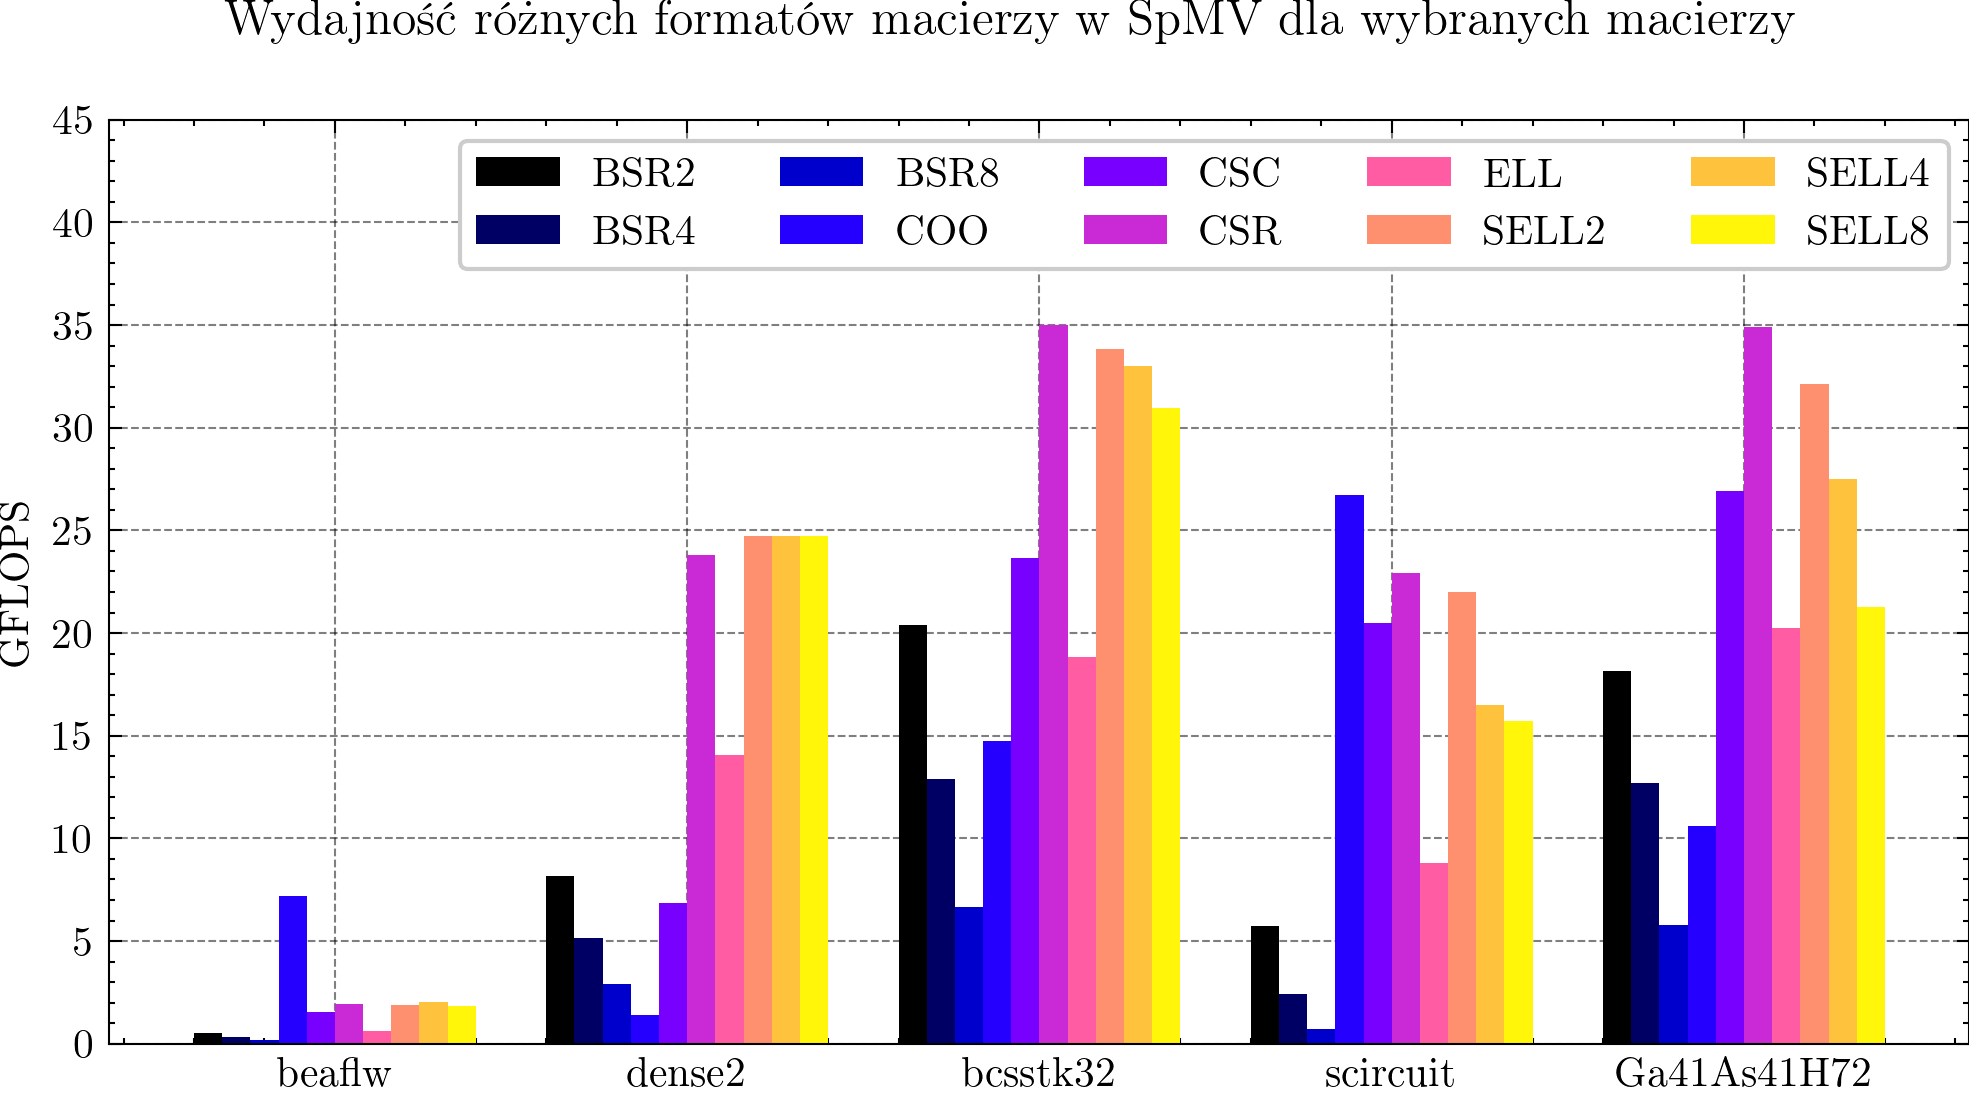
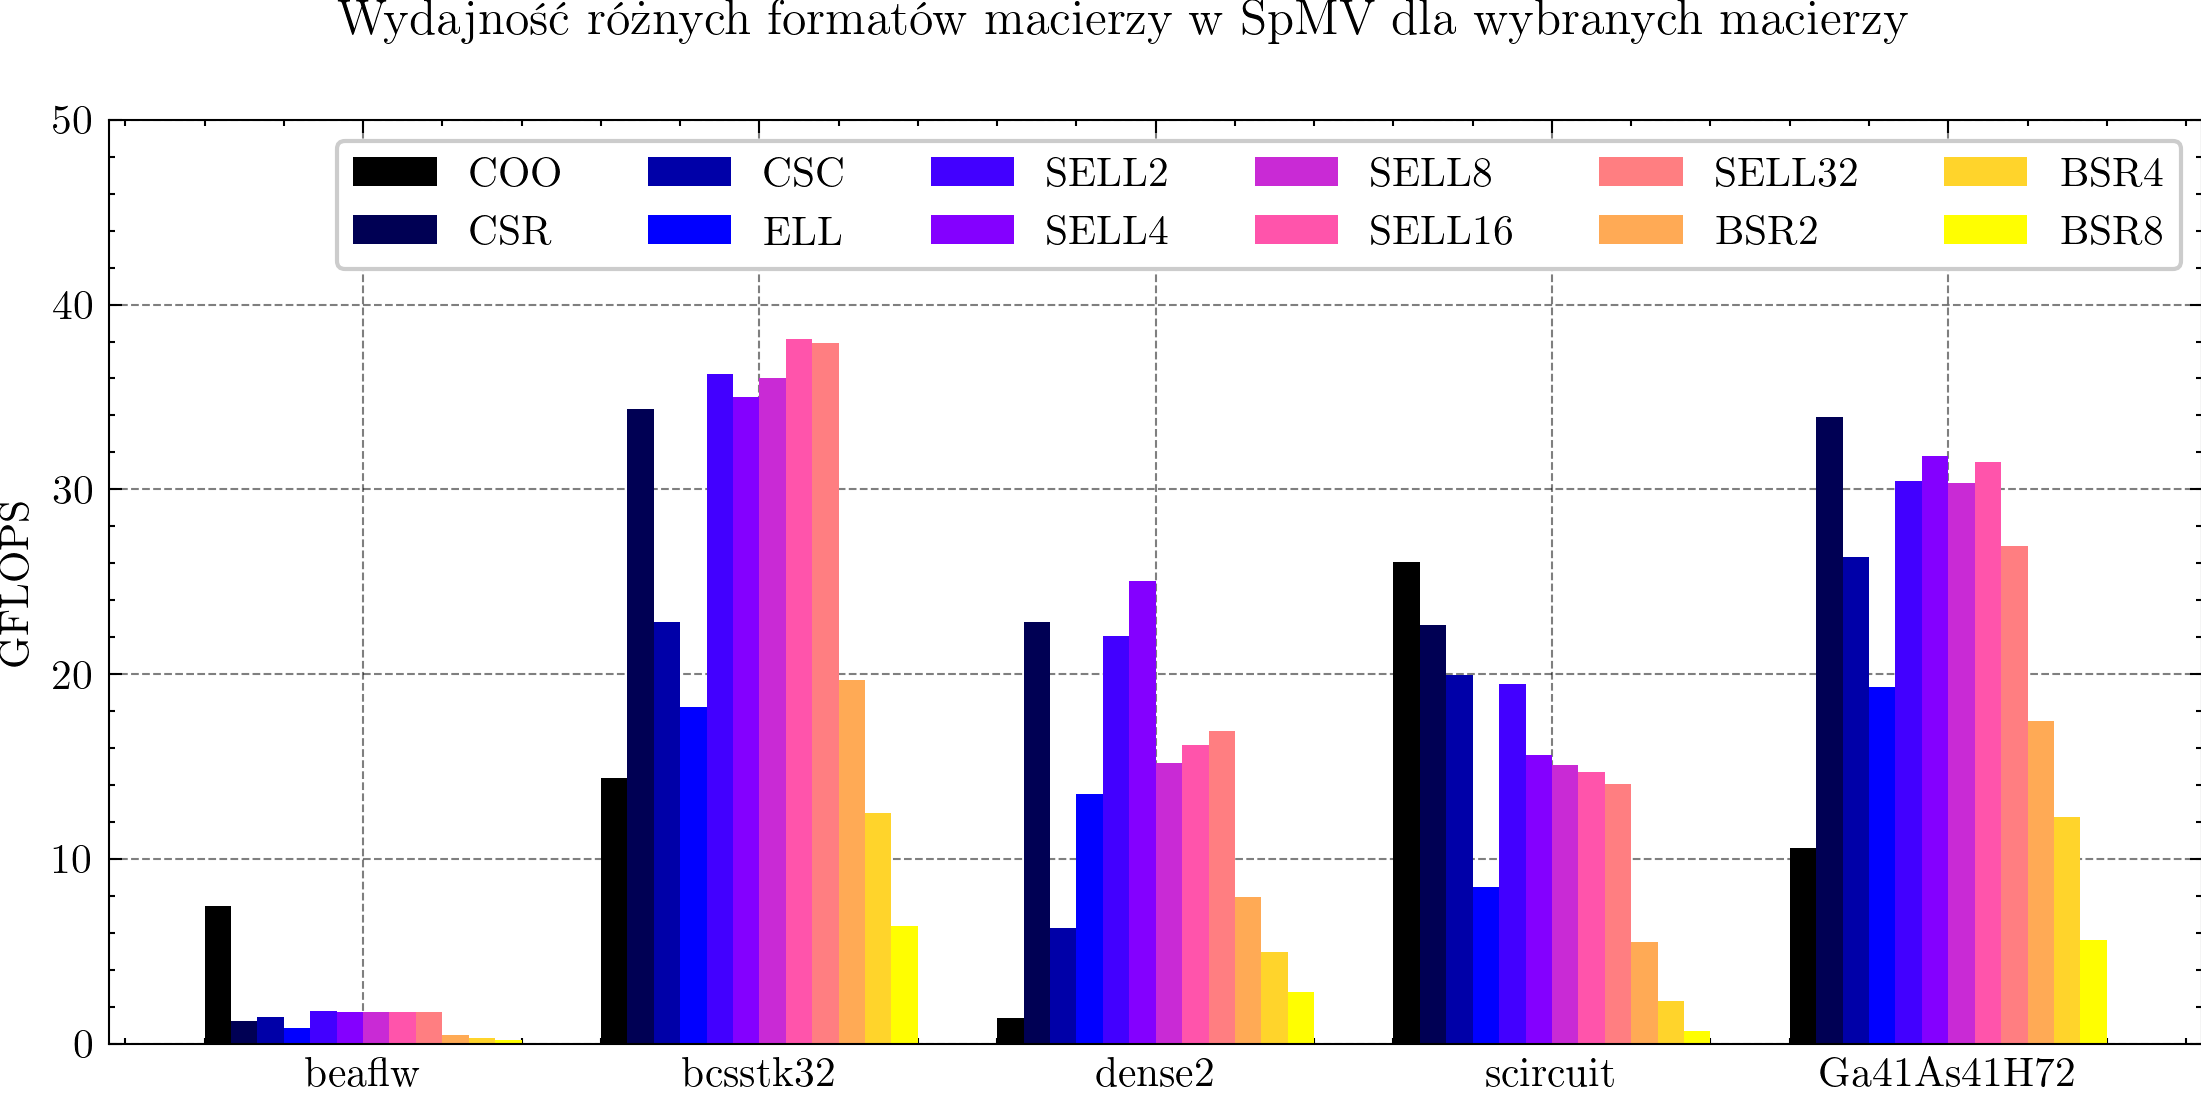
Finally, some good fucking plots

diff --git a/src/compute.c b/src/compute.c
@@ -269,13 +269,13 @@ void sort(void * arr, size_t data_size, size_t elem_size, int(*compare)(void * x
 }
 
 static void
-saveResultsToFile(RunInfoNode *node)
+saveResultsToFile(RunInfoNode *node, u32 prefixId)
 {
 #if defined(WIN32)
     char *basename = strstr(node->filename, "/") + 1;
 
     char filename[MAX_PATH] = { 0 };
-    sprintf(filename, "result_%s_%s.json", basename, node->name);
+    sprintf(filename, "%c_result_%s_%s.json", 'a' + prefixId, basename, node->name);
     HANDLE fileHandle = CreateFileA(filename, GENERIC_READ | GENERIC_WRITE, 0x0, 0x0, CREATE_ALWAYS, FILE_ATTRIBUTE_NORMAL, 0x0);
 
     char *scratchBuffer = malloc(8 * 1024 * 1024);
@@ -320,15 +320,16 @@ printRunStats()
     RunInfoNode *node = runInfos.head;
     char *basename = strstr(node->filename, "/") + 1;
     char buffer[128] = { 0 };
-    sprintf(buffer, "%d_%.*s", matrixNum, (size_t)strstr(basename, ".") - (size_t)basename, basename);
+    sprintf(buffer, "%d_%.*s", matrixNum, (int)((size_t)strstr(basename, ".") - (size_t)basename), basename);
     CreateDirectory(buffer, 0x0);
     SetCurrentDirectory(buffer);
 
     RunInfoSummary *summaries = malloc(128 * sizeof(RunInfoSummary));
     u32 summaryCount = 0;
+    u32 resultCounter = 0;
     while(node)
     {
-        saveResultsToFile(node);
+        saveResultsToFile(node, resultCounter++);
 
         double gflopSum = 0.0;
         double timeSum = 0.0;
@@ -3120,6 +3121,14 @@ runTestsForMatrix(VKState *state, char *filename)
     runScenarioCOO(state, &scnCOO, &matCOO, expVec, filename);
     destroyScenarioCOO(state, &scnCOO);
 
+    ScenarioCSR scnCSR = createScenarioCSR(state, &matCSR, vec);
+    runScenarioCSR(state, &scnCSR, &matCSR, expVec, filename);
+    destroyScenarioCSR(state, &scnCSR);
+
+    ScenarioCSC scnCSC = createScenarioCSC(state, &matCSC, vec);
+    runScenarioCSC(state, &scnCSC, &matCSC, expVec, filename);
+    destroyScenarioCSC(state, &scnCSC);
+
     ScenarioELL scnELL = createScenarioELL(state, &matELL, vec);
     runScenarioELL(state, &scnELL, &matELL, expVec, filename);
     destroyScenarioELL(state, &scnELL);
@@ -3157,14 +3166,6 @@ runTestsForMatrix(VKState *state, char *filename)
     ScenarioSELLColumnMajor scnSELL_CM_32 = createScenarioSELLColumnMajor(state, &matSELL_CM_32, vec);
     runScenarioSELLColumnMajor(state, &scnSELL_CM_32, &matSELL_CM_32, expVec, filename);
     destroyScenarioSELLColumnMajor(state, &scnSELL_CM_32);
-
-    ScenarioCSR scnCSR = createScenarioCSR(state, &matCSR, vec);
-    runScenarioCSR(state, &scnCSR, &matCSR, expVec, filename);
-    destroyScenarioCSR(state, &scnCSR);
-
-    ScenarioCSC scnCSC = createScenarioCSC(state, &matCSC, vec);
-    runScenarioCSC(state, &scnCSC, &matCSC, expVec, filename);
-    destroyScenarioCSC(state, &scnCSC);
 
     ScenarioBSR scnBSR_2 = createScenarioBSR(state, &matBSR_2, vec);
     runScenarioBSR(state, &scnBSR_2, &matBSR_2, expVec, filename);

diff --git a/plots/barplot_gflop.py b/plots/barplot_gflop.py
@@ -15,9 +15,9 @@ dirs = glob.glob("results/*")
 
 def myplot(kd, n, xticklabels, ylabel, ylim, title, outfilename):
     index = np.arange(n)
-    bar_width = 0.4 /5
+    bar_width = 0.4 /6
 
-    fig, ax = plt.subplots(figsize=(8, 4))
+    fig, ax = plt.subplots(figsize=(9, 4))
     NUM_COLORS = len(kd)
     cm = plt.get_cmap('gnuplot2')
     ax.set_prop_cycle('color', [cm(1.*i/NUM_COLORS) for i in range(NUM_COLORS)])
@@ -27,7 +27,7 @@ def myplot(kd, n, xticklabels, ylabel, ylim, title, outfilename):
 
     ax.legend(ncol=len(kd)//2)
     ax.set_xticklabels(xticklabels)
-    ax.set_xticks(index + 4.5*bar_width)
+    ax.set_xticks(index + 5.5*bar_width)
     ax.set_ylim(0,ylim)
     ax.set_ylabel(ylabel)
     fig.suptitle(title)
@@ -51,7 +51,7 @@ for directory in dirs:
         gflop_avg = sum(gflops) / len(gflops)
         gflop_array.append(gflop_avg)
         size_array.append(size / (1000 * 1000))
-        label = re.findall(r'(BSR[2-8]|COO|CSC|CSR|ELL|SELL[2-8])', f)[0]
+        label = re.findall(r'(BSR[2-8]|COO|CSC|CSR|ELL|SELL[0-9]+)', f)[0]
         if label not in kd:
             kd[label] = []
         kd[label].append(gflop_avg)
@@ -63,4 +63,4 @@ xticklabels = [k.replace("results\\", "")[2:] for k in dirs]
 ylabel = "GFLOPS"
 title = "Wydajność różnych formatów macierzy w SpMV dla wybranych macierzy"
 outfilename = "plots\\barchart.png"
-myplot(kd, len(dirs), xticklabels, ylabel, 45, title, outfilename)
+myplot(kd, len(dirs), xticklabels, ylabel, 50, title, outfilename)

diff --git a/plots/barplot_memorytime.py b/plots/barplot_memorytime.py
@@ -34,9 +34,9 @@ dirs = glob.glob("results/*")
 
 def myplot(kd, n, xticklabels, ylabel, ylim, title, outfilename):
     index = np.arange(n)
-    bar_width = 0.4 /5
+    bar_width = 0.4 /6
 
-    fig, ax = plt.subplots(figsize=(8, 4))
+    fig, ax = plt.subplots(figsize=(9, 4))
     NUM_COLORS = len(kd)
     cm = plt.get_cmap('gnuplot2')
     ax.set_prop_cycle('color', [cm(1.*i/NUM_COLORS) for i in range(NUM_COLORS)])
@@ -46,10 +46,10 @@ def myplot(kd, n, xticklabels, ylabel, ylim, title, outfilename):
 
     ax.legend(ncol=len(kd)//2)
     ax.set_xticklabels(xticklabels)
-    ax.set_xticks(index + 4.5*bar_width)
+    ax.set_xticks(index + 5.5*bar_width)
     ax.set_ylim(0,ylim)
     ax.set_ylabel(ylabel)
-    ax.annotate("2.46", (0.25,1.3), xycoords='data', xytext=(-0.2, 1), 
+    ax.annotate("2.46", (0.0,1.3), xycoords='data', xytext=(0.4, 1), 
      arrowprops=dict(arrowstyle="->", connectionstyle="arc3"),
             horizontalalignment='left', verticalalignment='top')
     fig.suptitle(title)
@@ -71,7 +71,7 @@ for directory in dirs:
         time_ms_avg = sum(time_mss) / len(time_mss)
         memorytime = 1/(time_ms_avg * (size / (1000**2)))
         size_array.append(size / (1000 * 1000))
-        label = re.findall(r'(BSR[2-8]|COO|CSC|CSR|ELL|SELL[2-8])', f)[0]
+        label = re.findall(r'(BSR[2-8]|COO|CSC|CSR|ELL|SELL[0-9]+)', f)[0]
         if label not in kd:
             kd[label] = []
         kd[label].append(memorytime)
